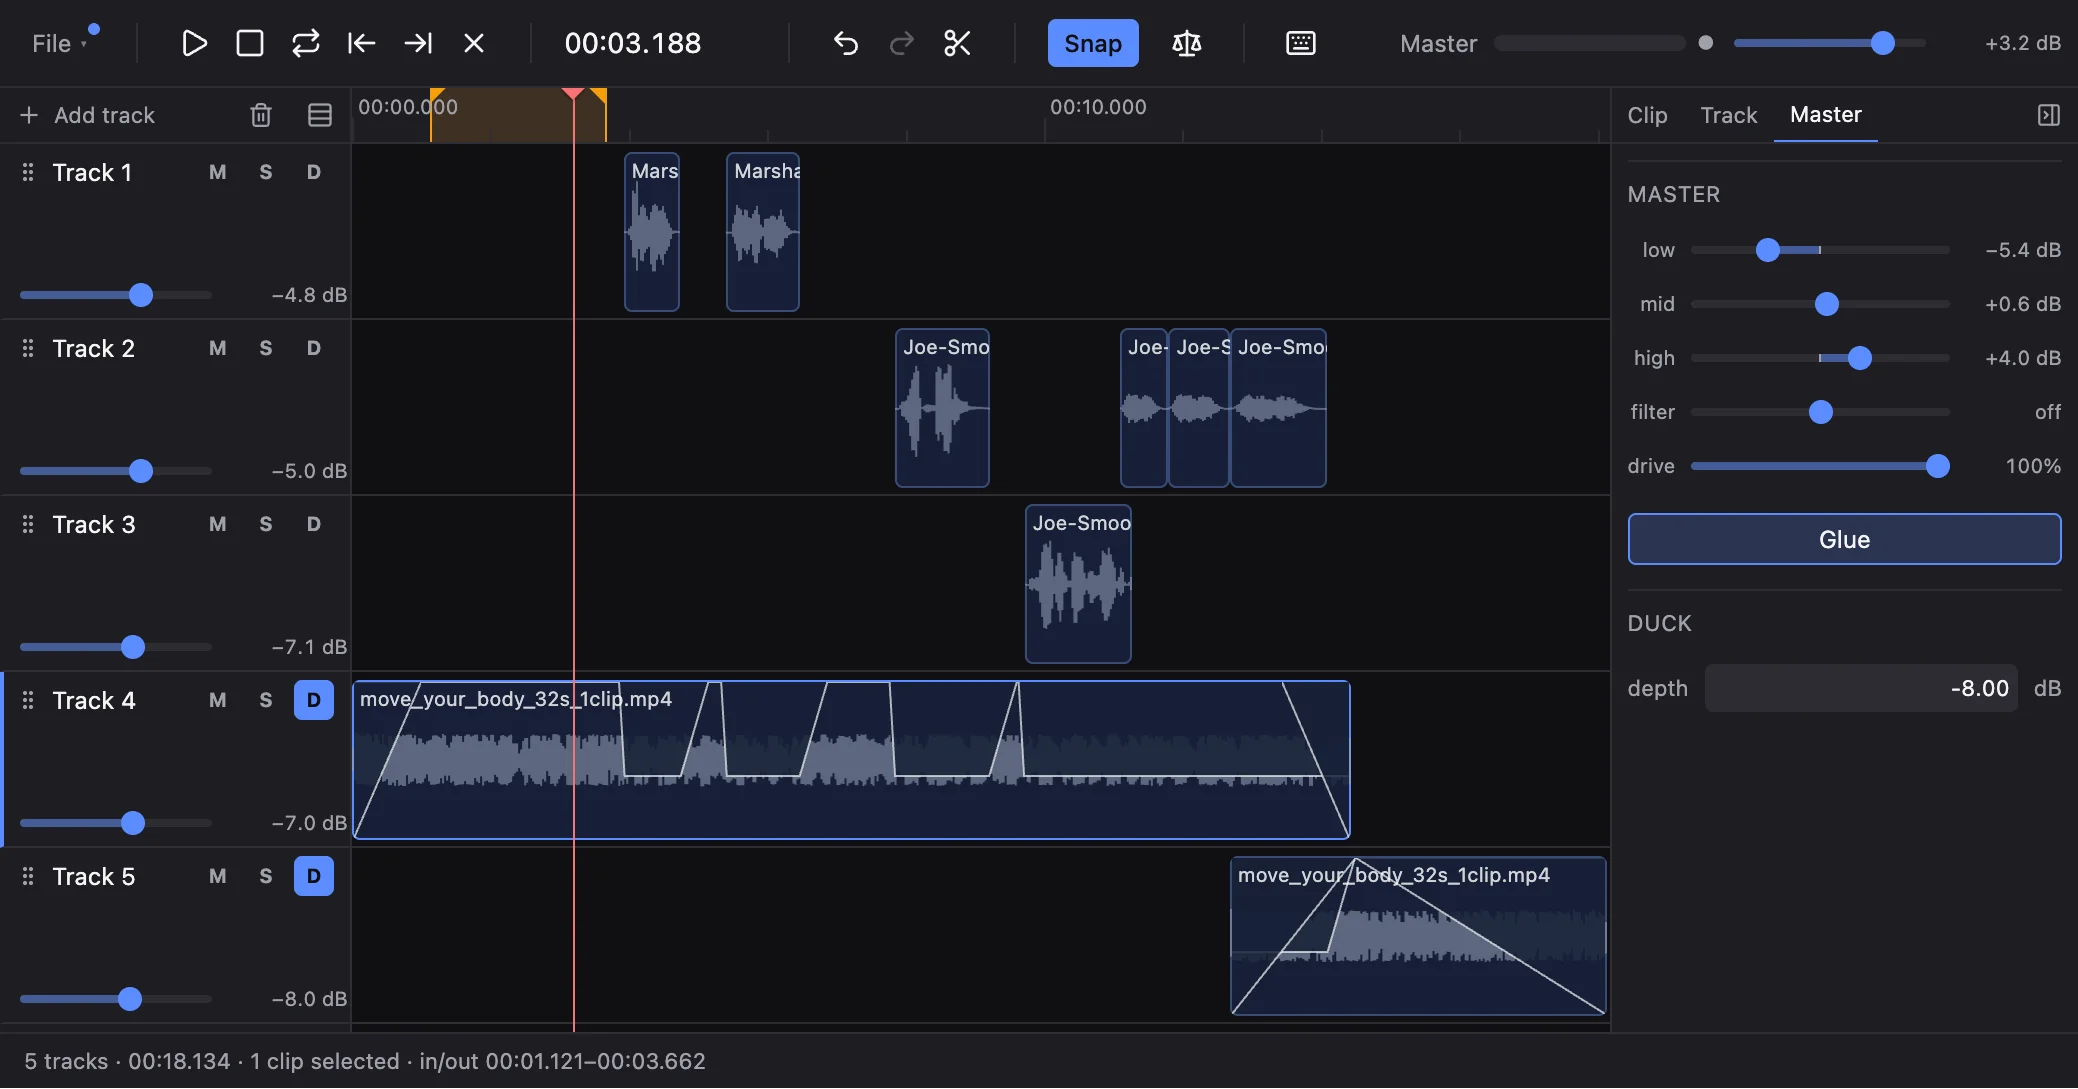
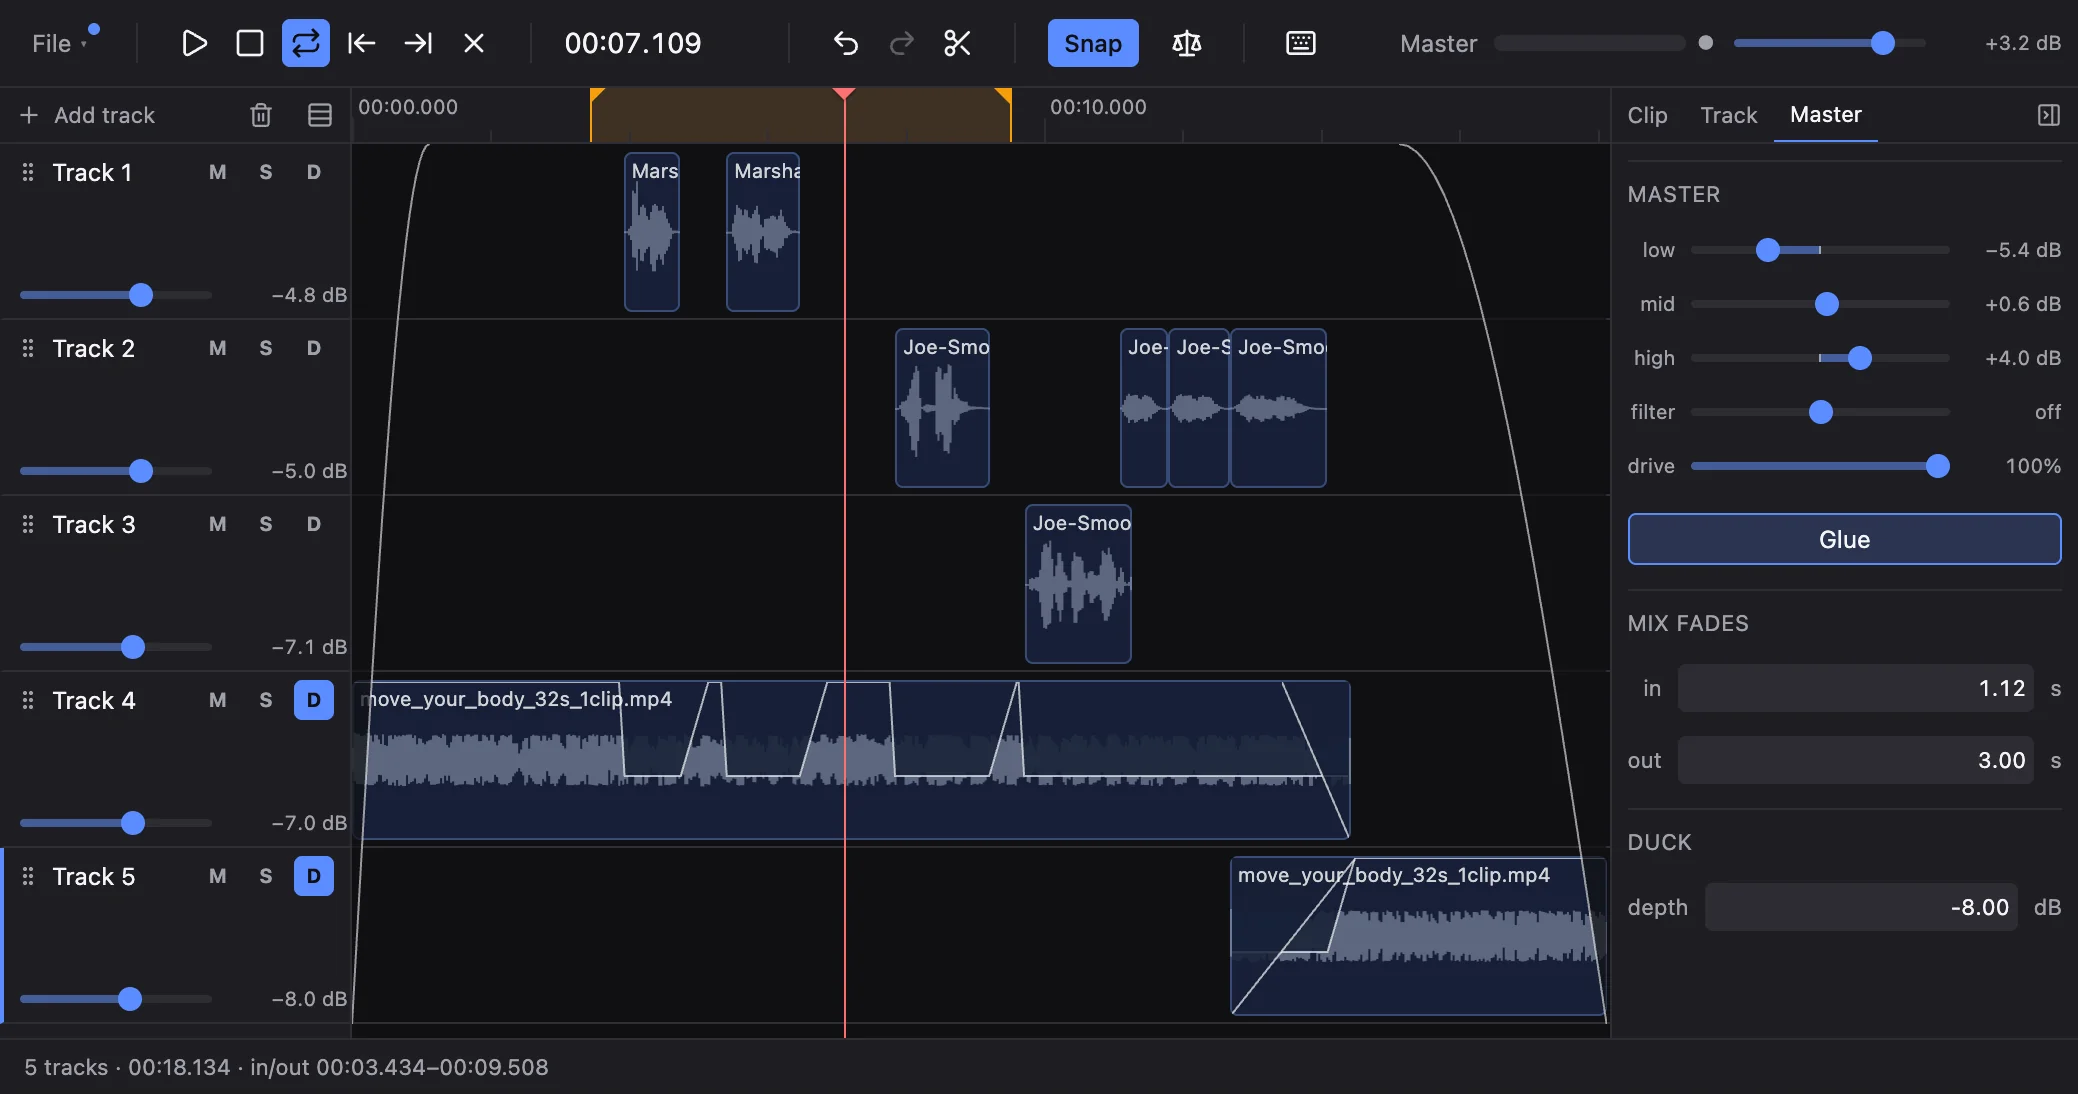
docs: refresh screenshot with the mix fade curves
The previous shot predates the master fade in/out overlay. 2078x1095, 65 kB
WebP at q85 (was 62 kB); alt text now names the fade curves and the Mix fades
fields in the Master tab.

Claude-Session: https://claude.ai/code/session_01378b9ESxbigF8v7gHaz2j9

diff --git a/README.md b/README.md
@@ -9,7 +9,7 @@ under the voice, and export a mastered file — all locally, with no upload and 
 
 **→ [slop-audio-editor.meigo.workers.dev](https://slop-audio-editor.meigo.workers.dev)**
 
-![Slop Audio Editor — five tracks of waveforms with ducking envelopes drawn on the music beds, an in/out loop range on the ruler, and the master EQ, filter, saturation and Glue in the side panel](docs/screenshot.webp)
+![Slop Audio Editor — five tracks of waveforms with ducking envelopes drawn on the music beds, the mix fade-in and fade-out curves arcing across the whole timeline, an in/out loop range on the ruler, and the master EQ, filter, saturation, Glue and mix fades in the side panel](docs/screenshot.webp)
 
 **Stack:** Svelte 5 (runes) + TypeScript + Vite + Tailwind 4, on the Web Audio API.
 
